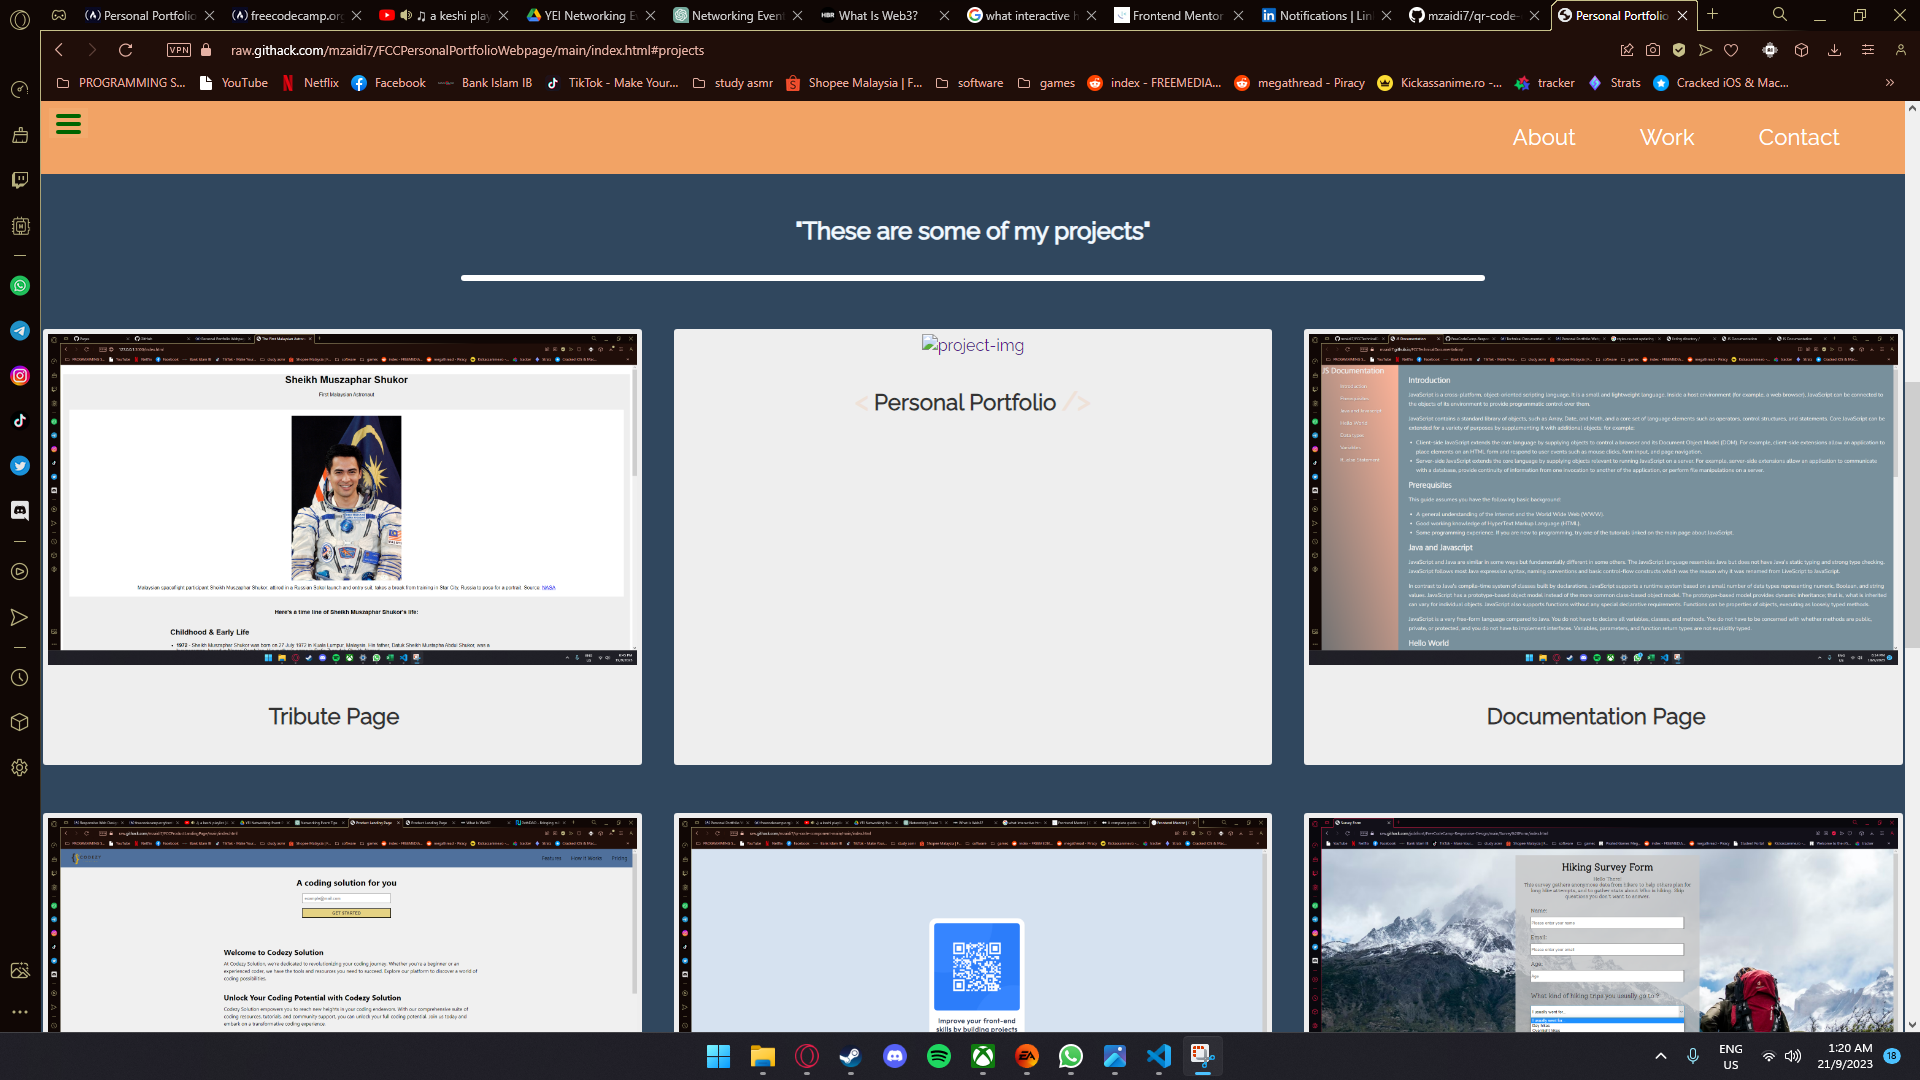
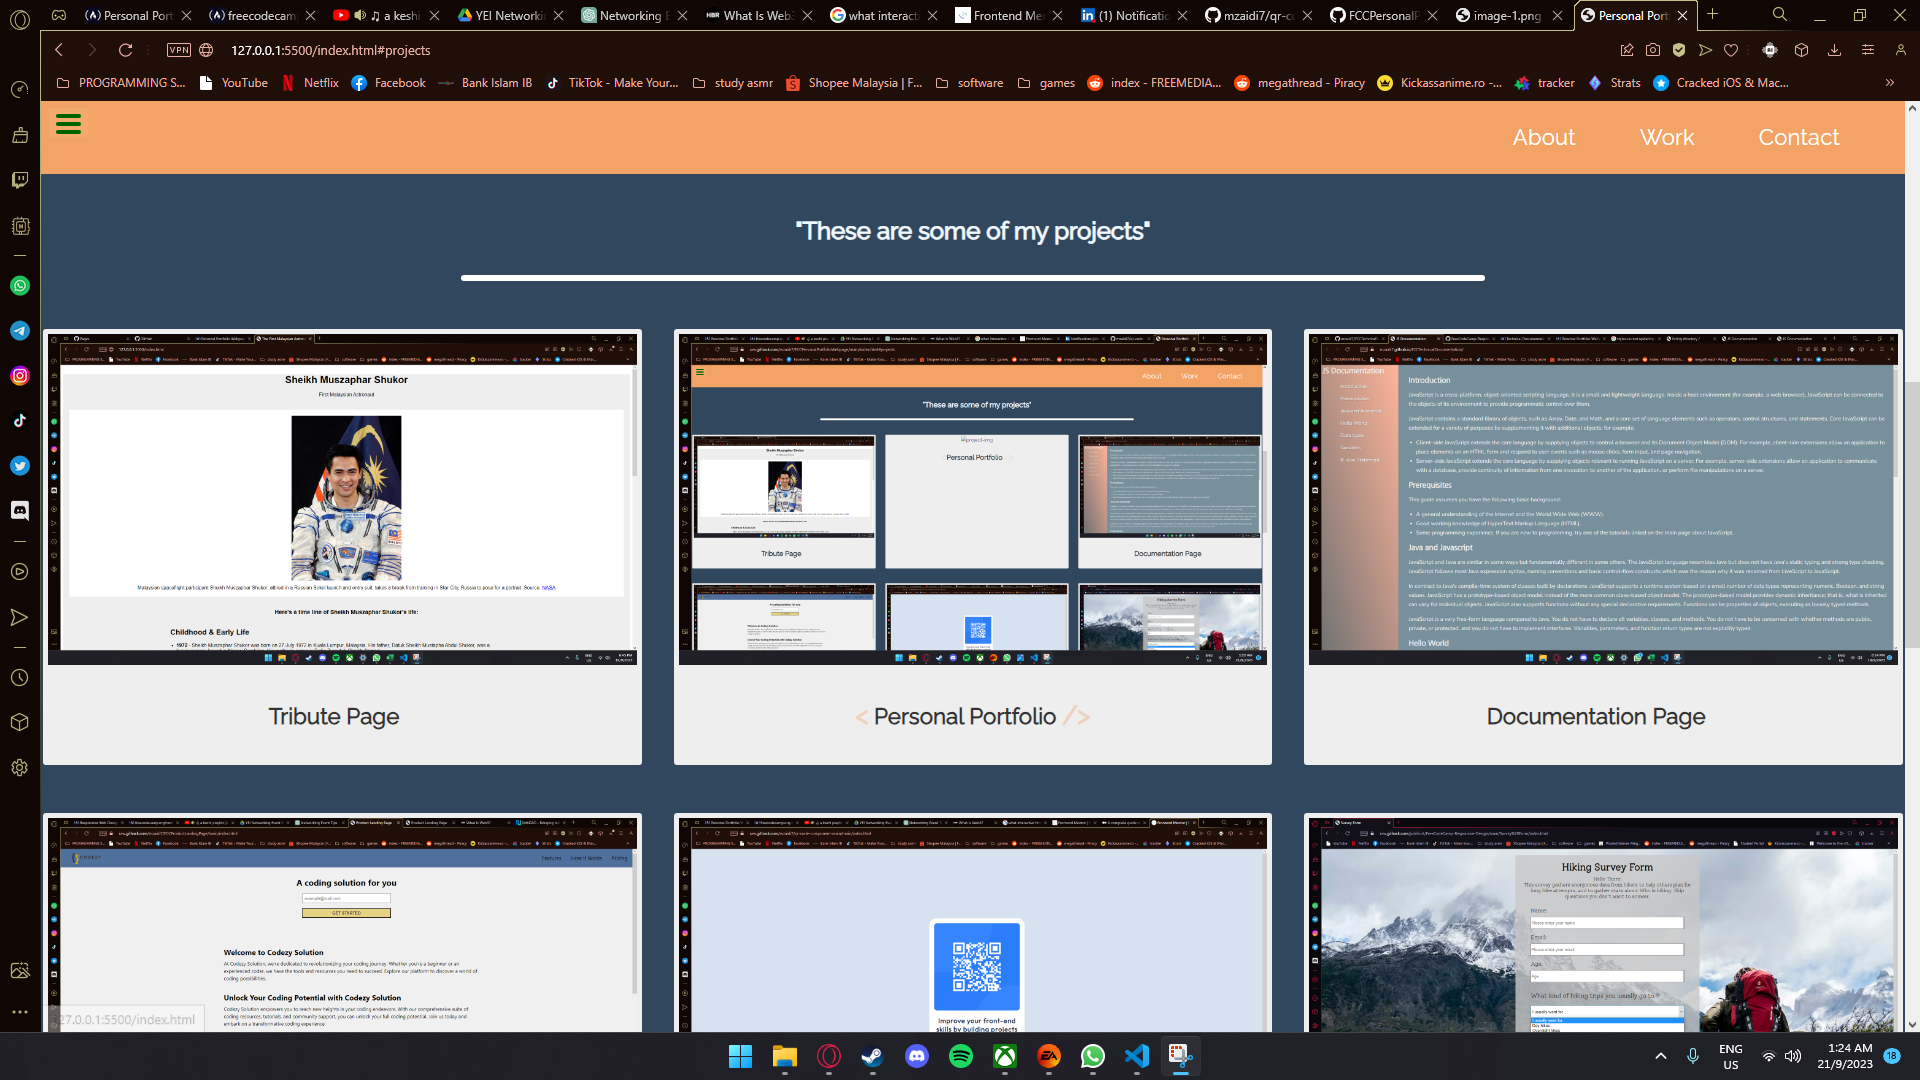
change some setiing

diff --git a/index.html b/index.html
@@ -44,7 +44,7 @@
 
         <div class="box">
           <a target="_blank" href="" alt="project-img" class="project-img">
-            <img src="img/project-2.JPG" alt="project-img" class="project-img">
+            <img src="https://raw.githubusercontent.com/mzaidi7/FCCPersonalPortfolioWebpage/main/images/image-1.png" alt="project-img" class="project-img">
             <p>
               <span class="code">&lt;</span>
               Personal Portfolio
